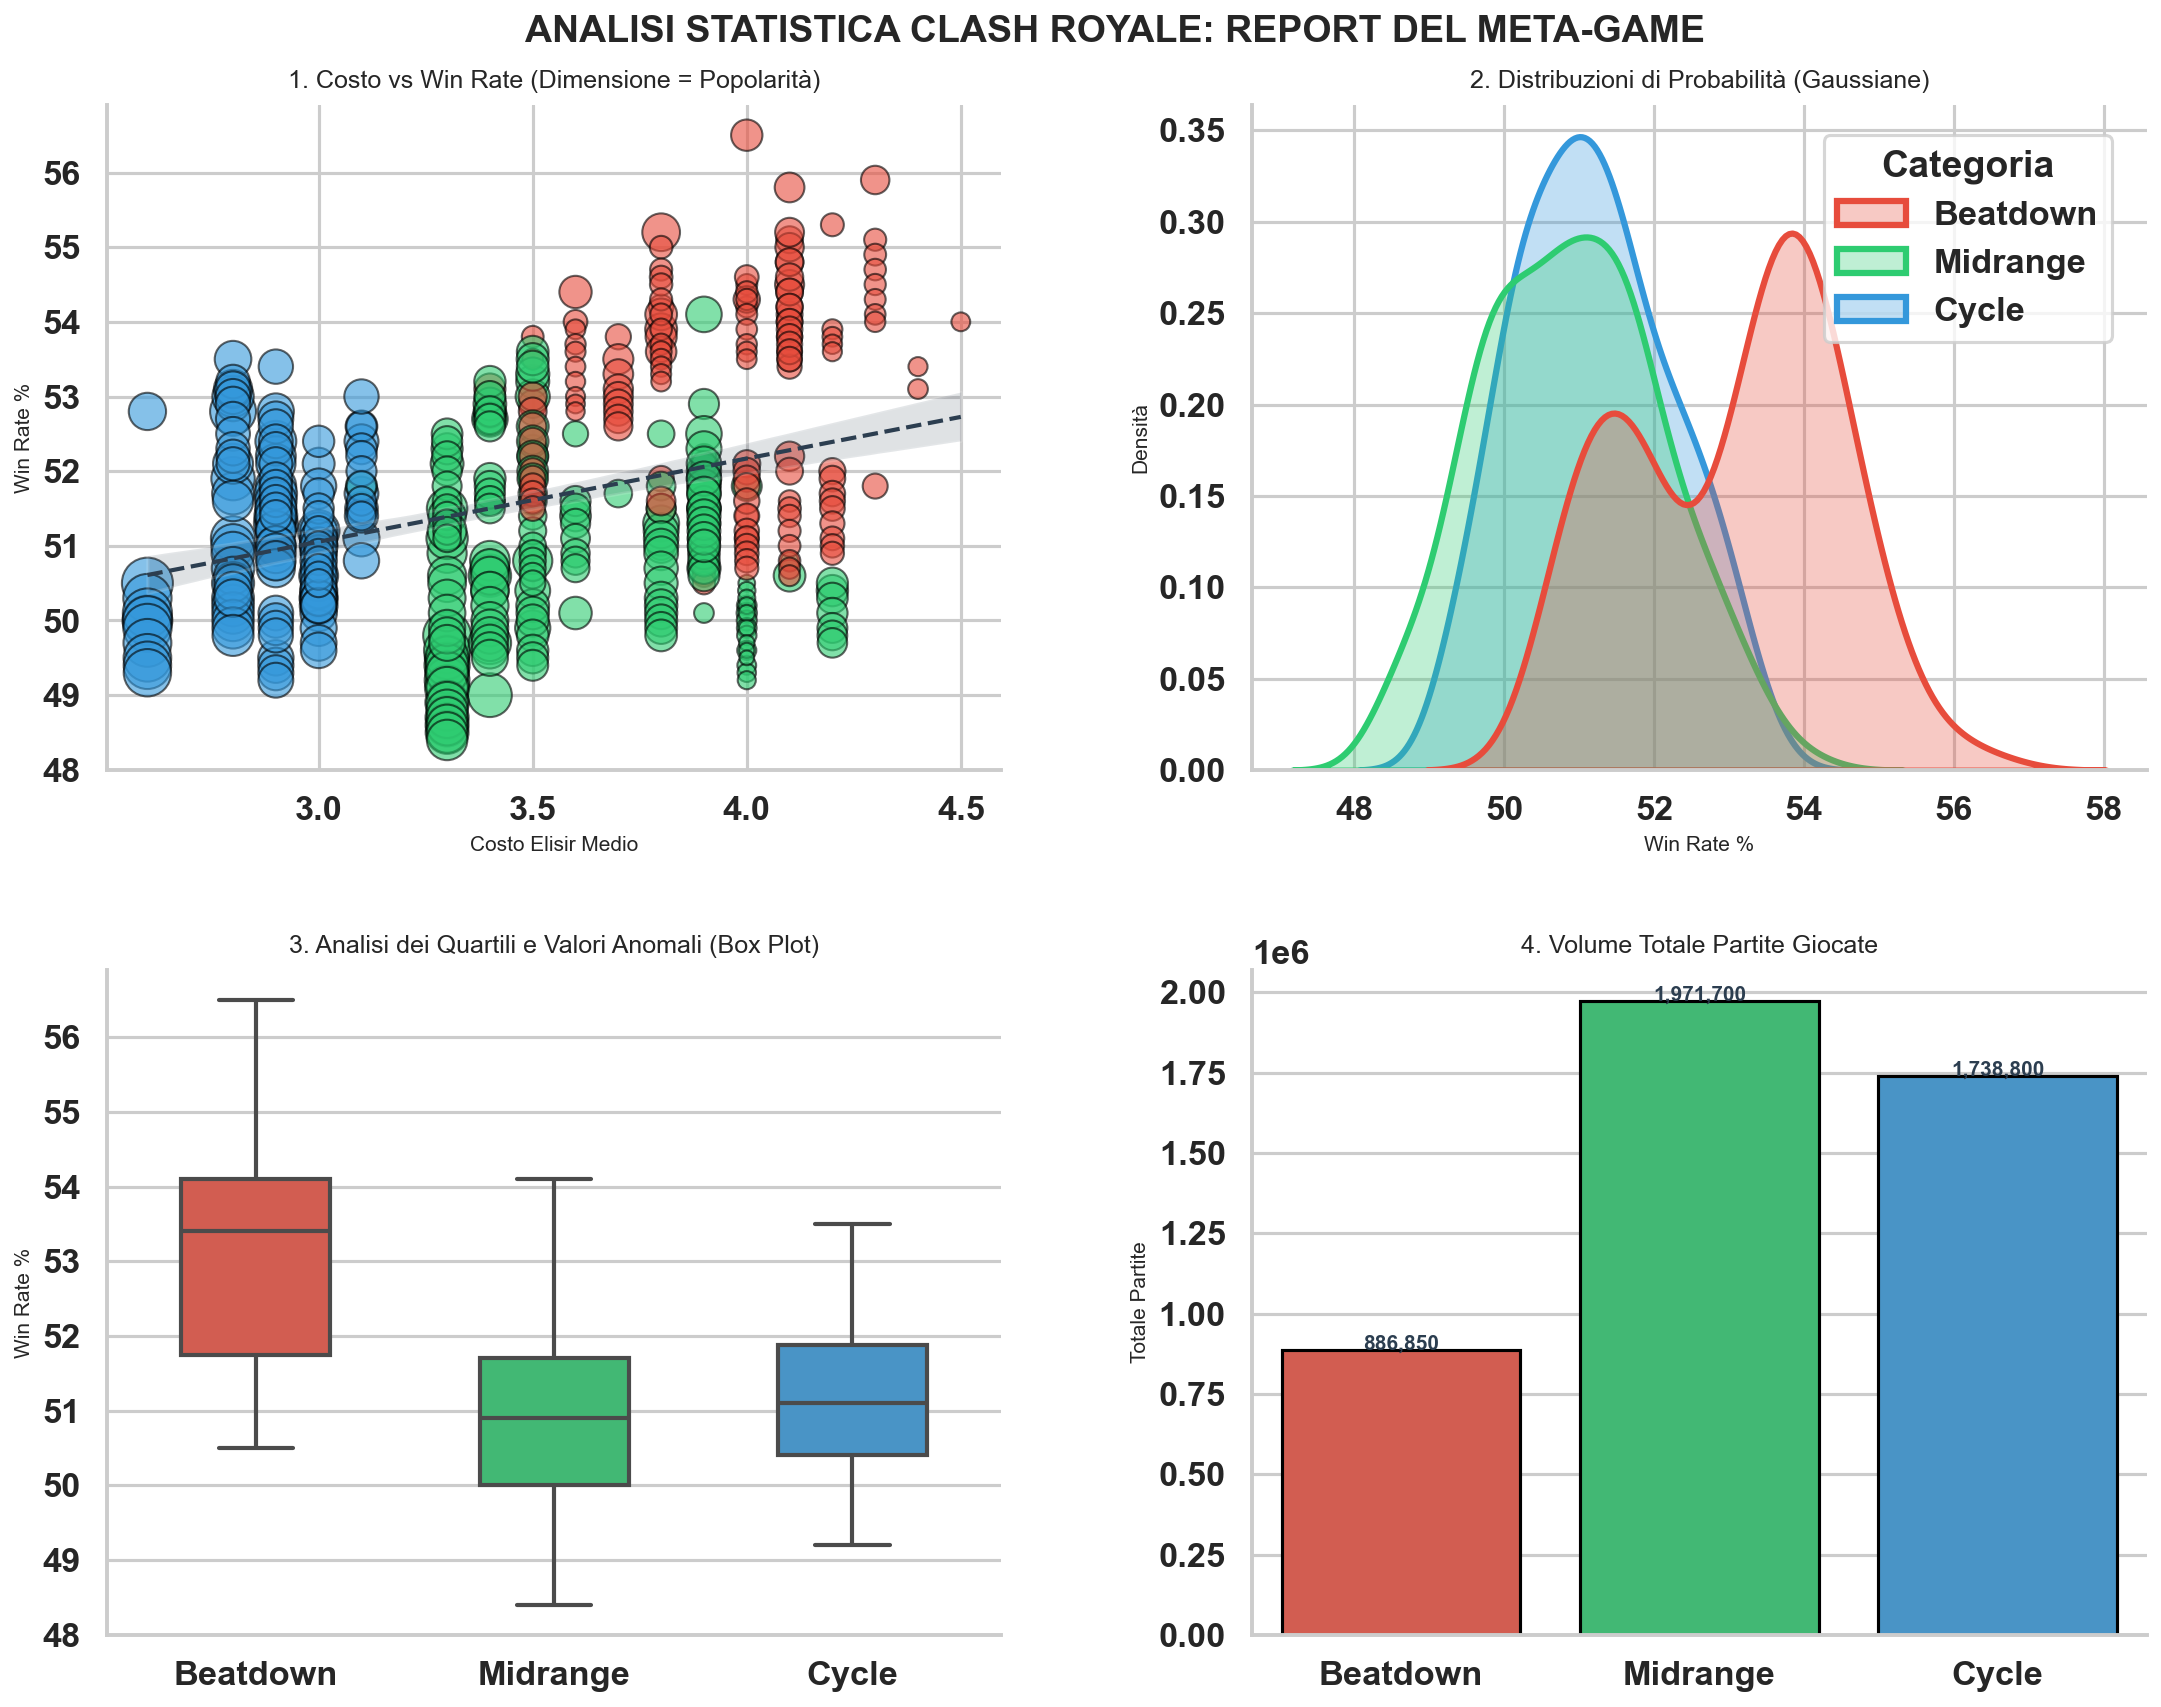
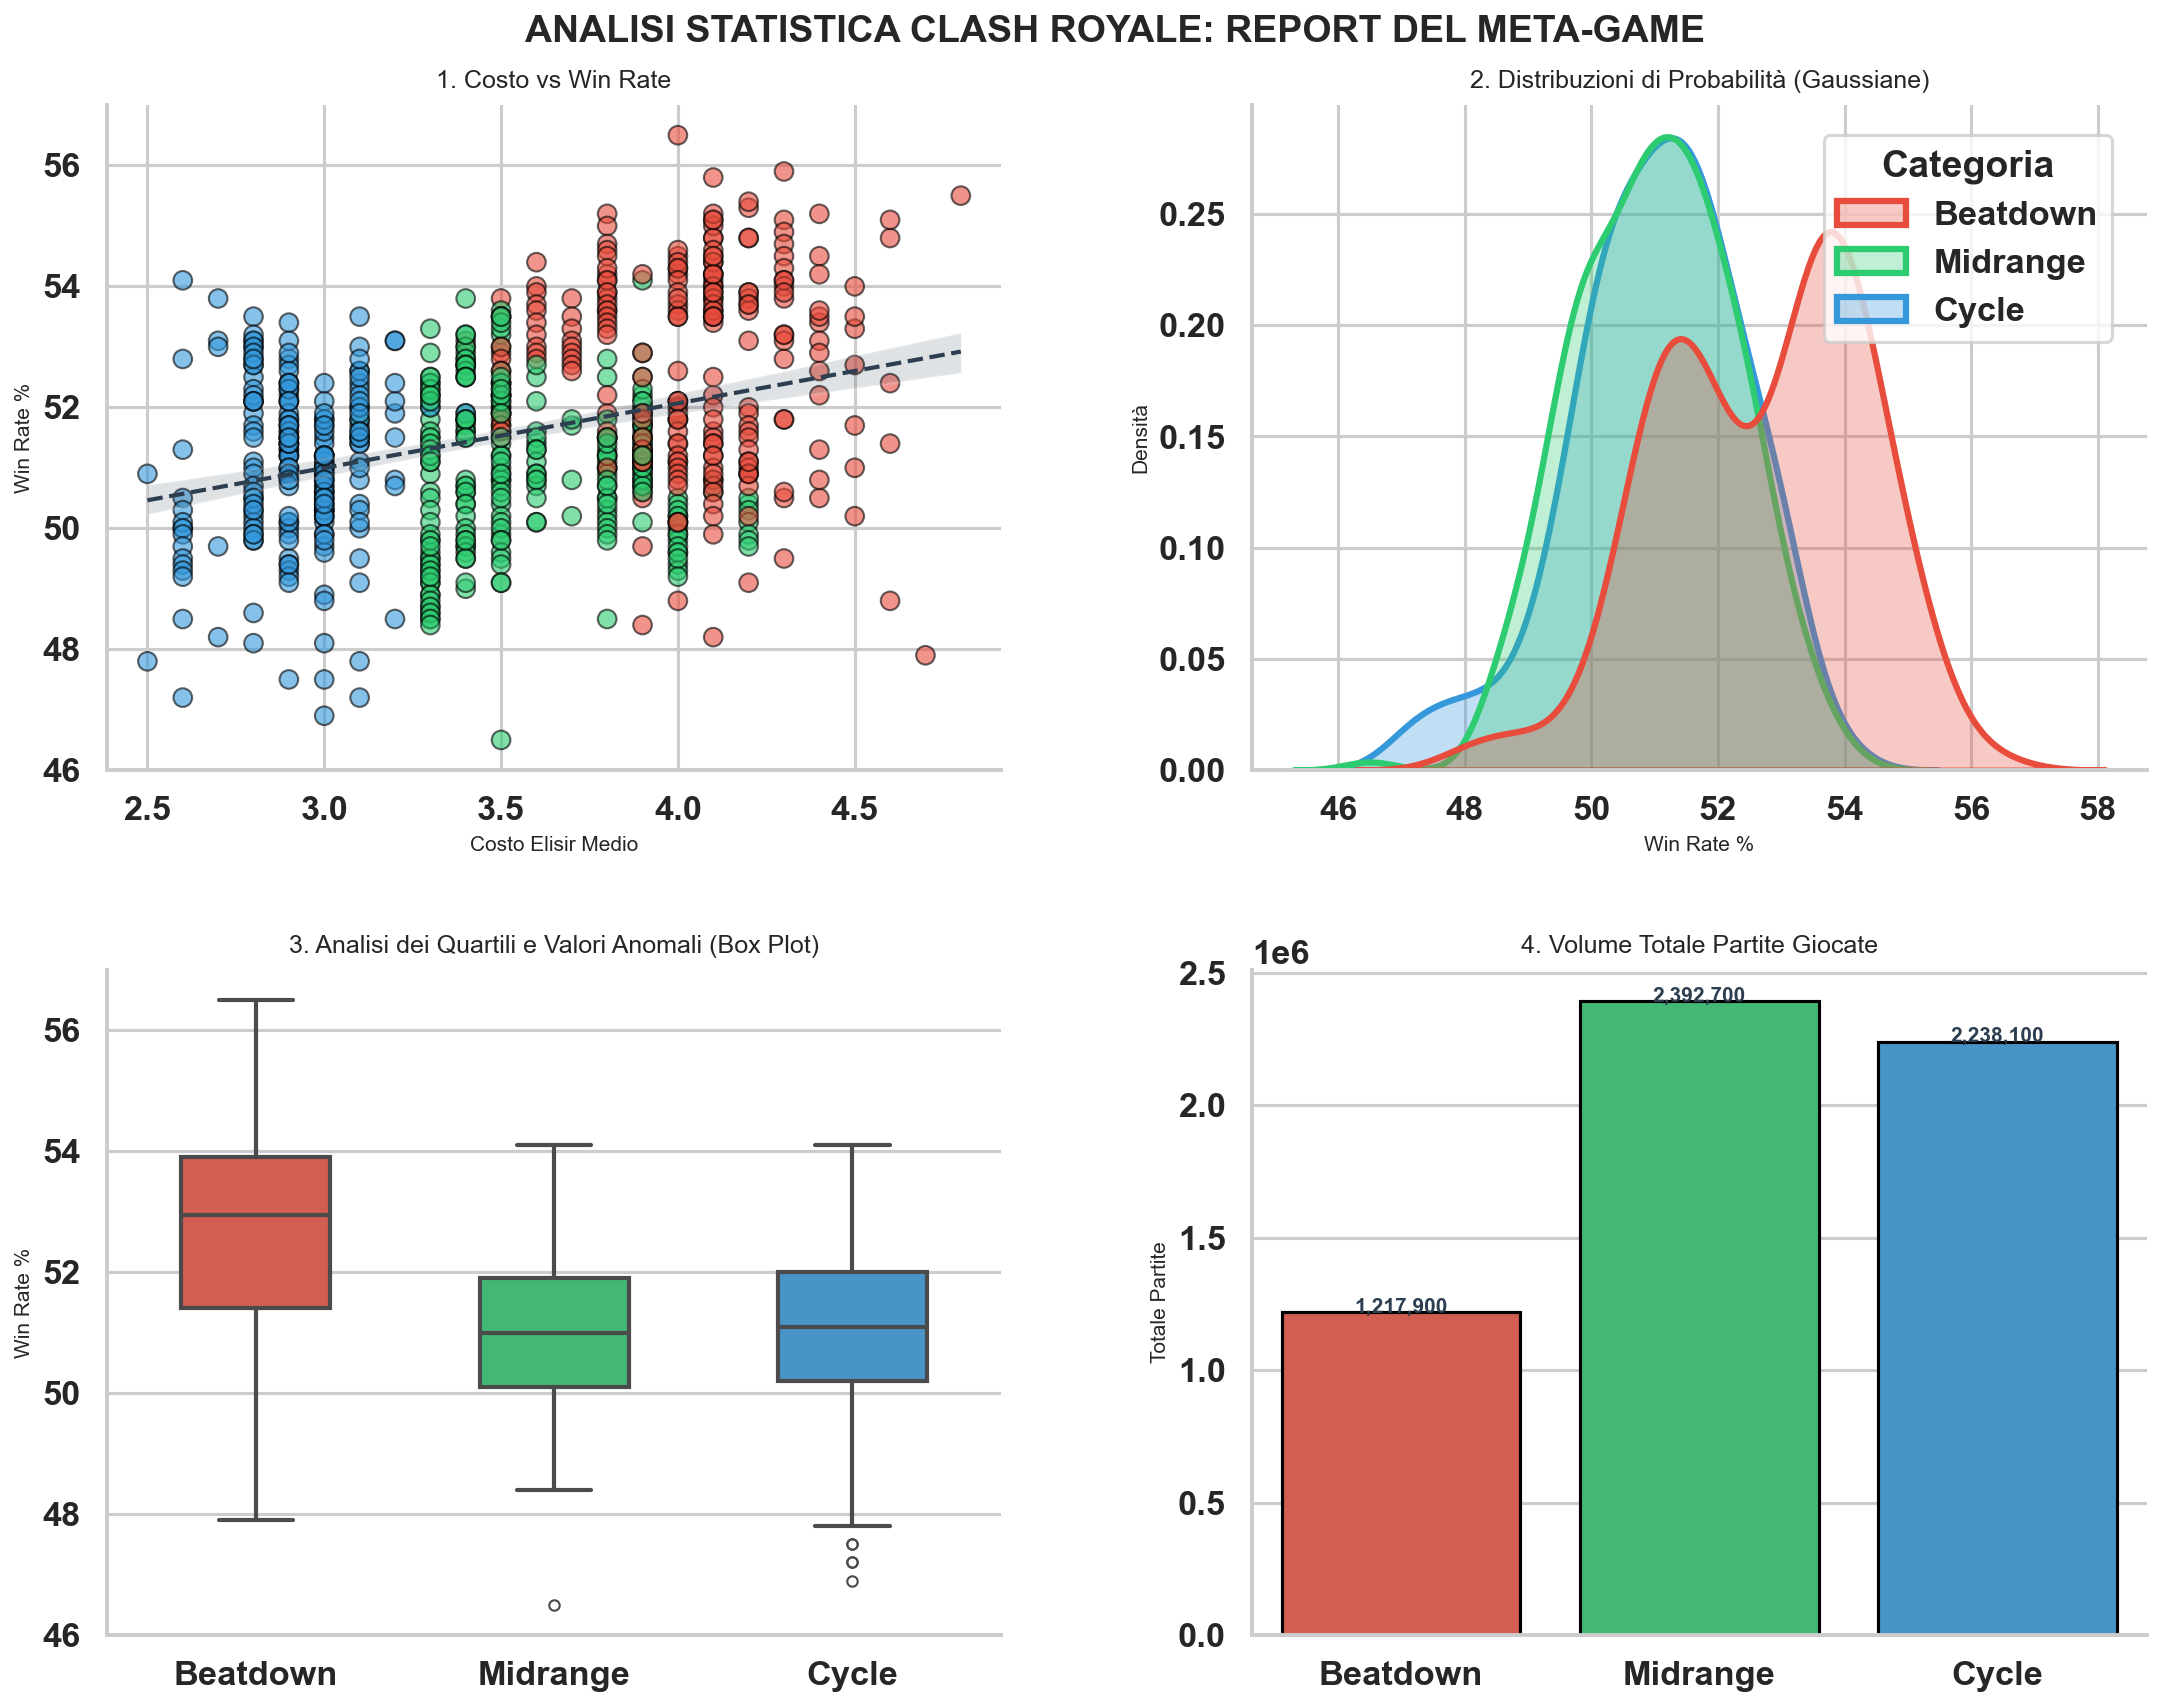
remove bubble e altro

diff --git a/main.py b/main.py
@@ -97,13 +97,12 @@ def mostra_grafici(df):
     ax1 = axs[0, 0]
     sns.scatterplot(data=df, x='Costo_Elisir', y='Win_Rate', 
                     hue='Categoria', palette=custom_palette,
-                    size='Partite', sizes=(50, 600), 
-                    alpha=0.6, edgecolor="black", linewidth=1, ax=ax1)
+                    s=80, alpha=0.6, edgecolor="black", linewidth=1, ax=ax1)
     
     sns.regplot(data=df, x='Costo_Elisir', y='Win_Rate', scatter=False, 
                 color='#2c3e50', line_kws={'linestyle':'--', 'linewidth': 2}, ax=ax1)
     
-    ax1.set_title('1. Costo vs Win Rate (Dimensione = Popolarità)', fontsize=12, pad=8)
+    ax1.set_title('1. Costo vs Win Rate', fontsize=12, pad=8)
     ax1.set_xlabel('Costo Elisir Medio', fontsize=10)
     ax1.set_ylabel('Win Rate %', fontsize=10)
     ax1.get_legend().remove()
@@ -146,6 +145,68 @@ def mostra_grafici(df):
     print("\n[INFO] Generazione dashboard con box plot...")
     plt.savefig('dashboard_analisi.png', dpi=150, bbox_inches='tight')
     print("[OK] Dashboard salvato come 'dashboard_analisi.png'")
+    plt.close(fig)
+
+    fig1, ax1 = plt.subplots(figsize=(9, 7))
+    sns.scatterplot(data=df, x='Costo_Elisir', y='Win_Rate',
+                    hue='Categoria', palette=custom_palette,
+                    s=80, alpha=0.6, edgecolor="black", linewidth=1, ax=ax1)
+    sns.regplot(data=df, x='Costo_Elisir', y='Win_Rate', scatter=False,
+                color='#2c3e50', line_kws={'linestyle': '--', 'linewidth': 2}, ax=ax1)
+    ax1.set_title('Costo vs Win Rate', fontsize=13, pad=8)
+    ax1.set_xlabel('Costo Elisir Medio', fontsize=10)
+    ax1.set_ylabel('Win Rate %', fontsize=10)
+    sns.despine()
+    fig1.tight_layout()
+    fig1.savefig('grafico_1_costo_vs_win_rate.png', dpi=150, bbox_inches='tight')
+    plt.close(fig1)
+
+    fig2, ax2 = plt.subplots(figsize=(9, 7))
+    sns.kdeplot(data=df, x='Win_Rate', hue='Categoria', palette=custom_palette,
+                fill=True, alpha=0.3, linewidth=3, common_norm=False, ax=ax2)
+    ax2.set_title('Distribuzioni di Probabilità (Gaussiane)', fontsize=13, pad=8)
+    ax2.set_xlabel('Win Rate %', fontsize=10)
+    ax2.set_ylabel('Densità', fontsize=10)
+    legend = ax2.get_legend()
+    legend.set_title('Categoria')
+    legend.set_bbox_to_anchor((0.98, 0.98))
+    legend.set_loc('upper right')
+    sns.despine()
+    fig2.tight_layout()
+    fig2.savefig('grafico_2_distribuzioni.png', dpi=150, bbox_inches='tight')
+    plt.close(fig2)
+
+    fig3, ax3 = plt.subplots(figsize=(9, 7))
+    sns.boxplot(x='Categoria', y='Win_Rate', data=df, hue='Categoria', palette=custom_palette,
+                width=0.5, linewidth=2, fliersize=5, ax=ax3, legend=False)
+    ax3.set_title('Analisi Quartili e Valori Anomali (Box Plot)', fontsize=13, pad=8)
+    ax3.set_ylabel('Win Rate %', fontsize=10)
+    ax3.set_xlabel('')
+    sns.despine()
+    fig3.tight_layout()
+    fig3.savefig('grafico_3_box_plot.png', dpi=150, bbox_inches='tight')
+    plt.close(fig3)
+
+    fig4, ax4 = plt.subplots(figsize=(9, 7))
+    barplot4 = sns.barplot(x='Categoria', y='Partite', data=df, hue='Categoria', estimator=np.sum,
+                           palette=custom_palette, errorbar=None, ax=ax4, edgecolor="black", legend=False)
+    ax4.set_title('Volume Totale Partite Giocate', fontsize=13, pad=8)
+    ax4.set_ylabel('Totale Partite', fontsize=10)
+    ax4.set_xlabel('')
+    for p in barplot4.patches:
+        height = p.get_height()
+        ax4.text(p.get_x() + p.get_width() / 2., height + 1000,
+                 f'{int(height):,}', ha="center", fontsize=10, fontweight='bold', color='#2c3e50')
+    sns.despine()
+    fig4.tight_layout()
+    fig4.savefig('grafico_4_volume_partite.png', dpi=150, bbox_inches='tight')
+    plt.close(fig4)
+
+    print("[OK] Creati anche i PNG singoli:")
+    print("     - grafico_1_costo_vs_win_rate.png")
+    print("     - grafico_2_distribuzioni.png")
+    print("     - grafico_3_box_plot.png")
+    print("     - grafico_4_volume_partite.png")
     # Uncomment the line below if running in an interactive environment with a display
     # plt.show()
 
